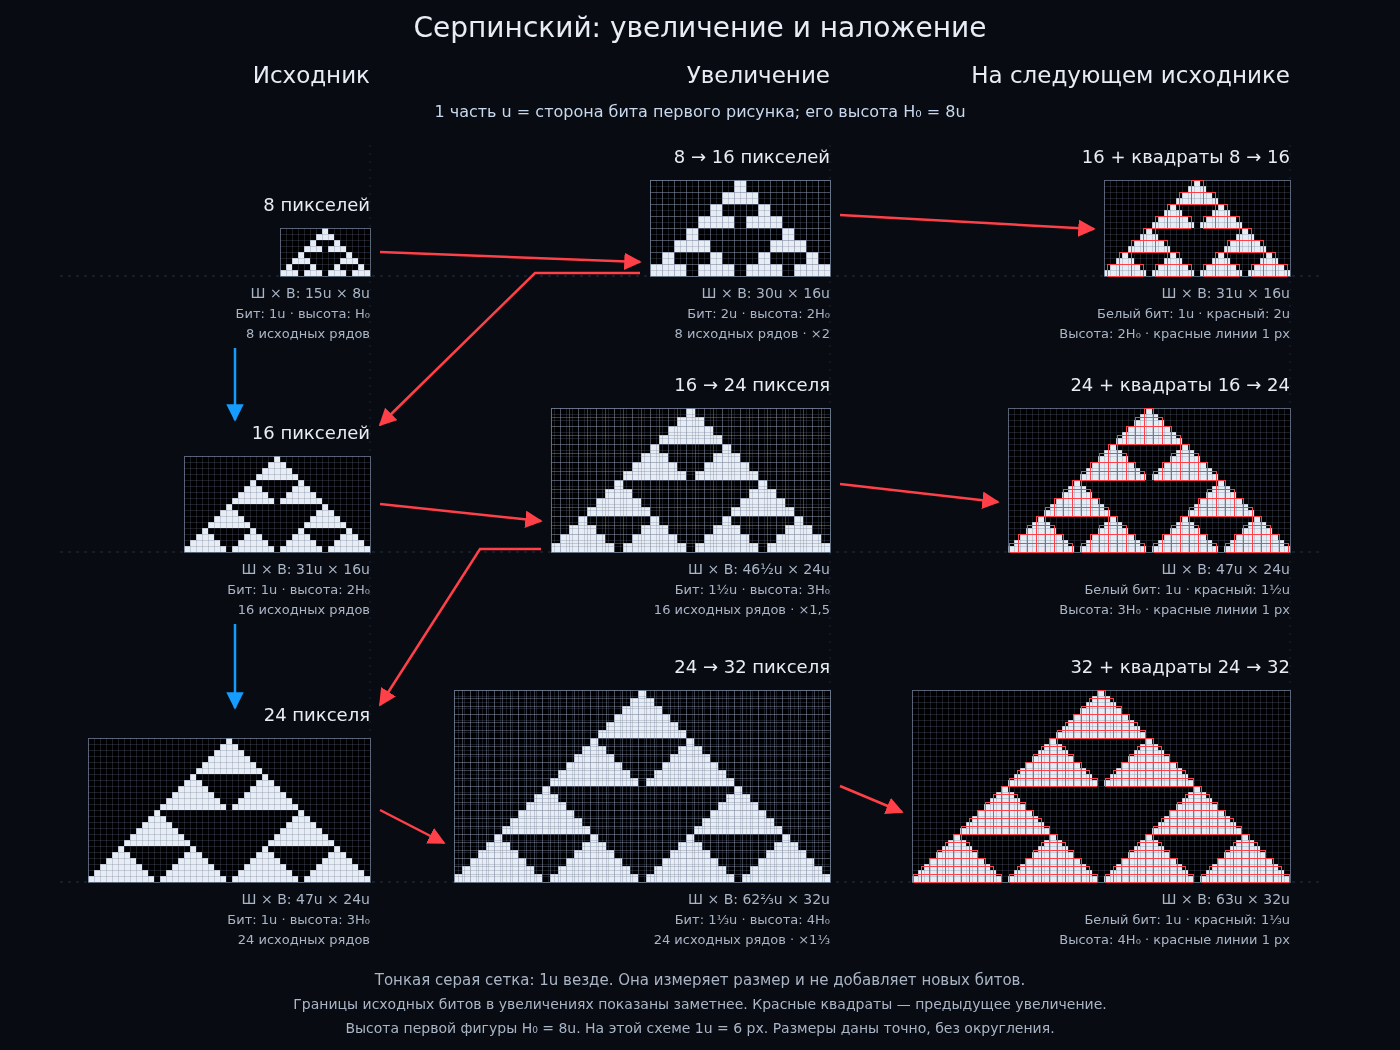
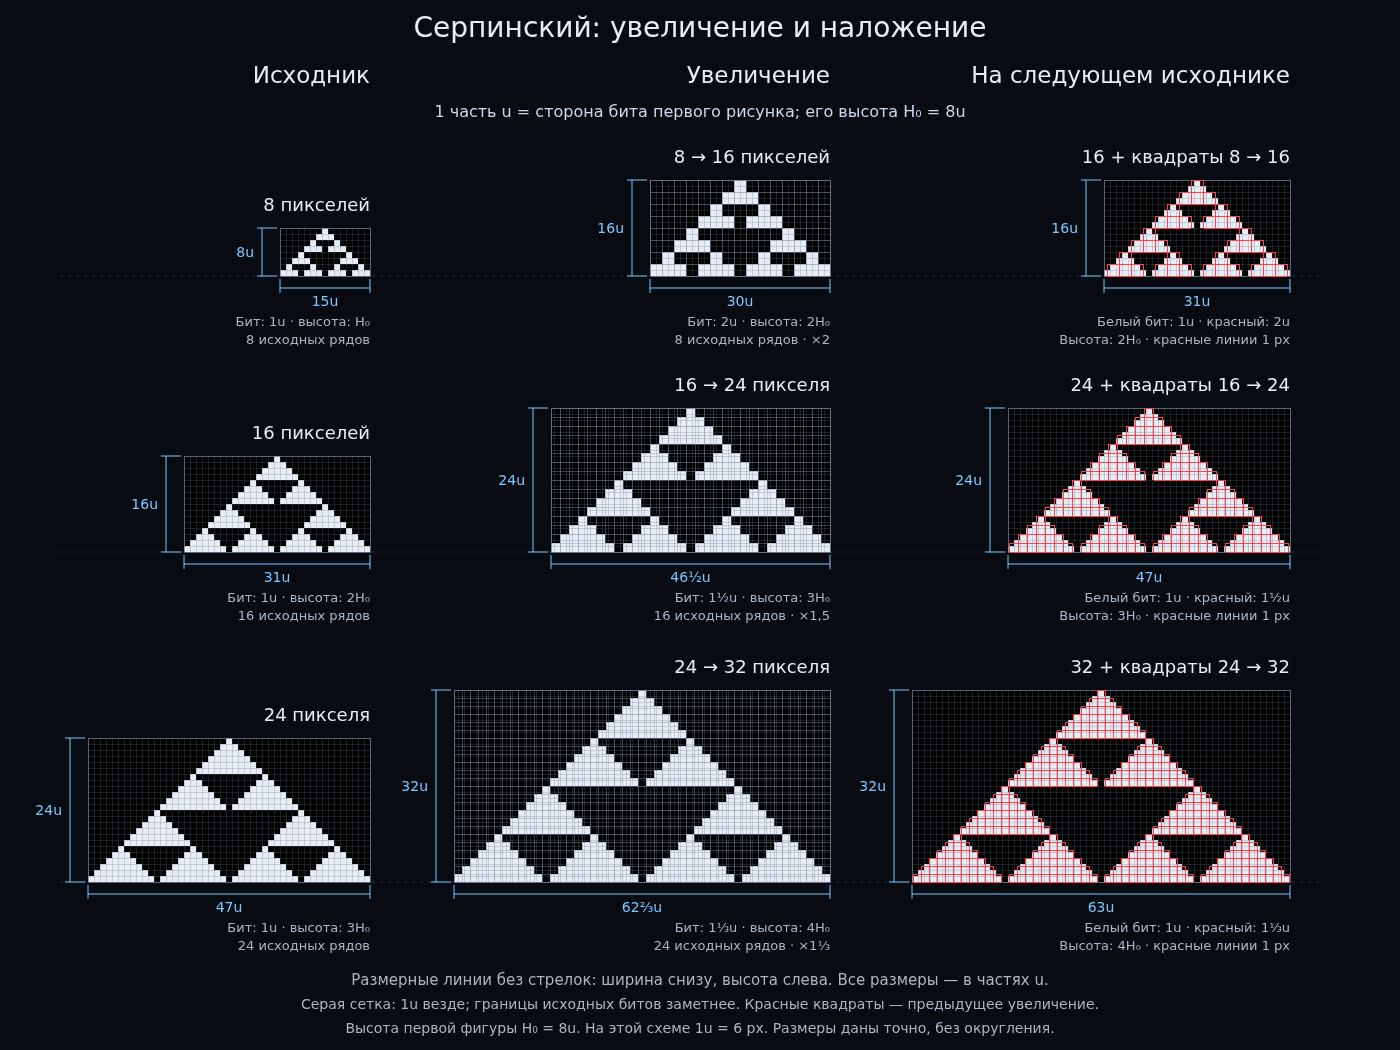
Show panel dimensions and remove Sierpinski connector arrows

diff --git a/ЗАДАЧИ.md b/ЗАДАЧИ.md
@@ -17,6 +17,7 @@
 | КНП-004 | Меняющая наклон диагональ у «или–или» | P1 | готово | завершено | 100% (4/4) | текущая сессия Codex | Исполнителю КНП-003 учитывать КН10 и 58 правил |
 | ИСС-001 | Выровнять и сохранить схему Серпинского | P1 | готово | завершено | 100% (4/4) | текущая сессия Codex | Использовать схему в разделе 7.7 исследований |
 | ИСС-003 | Три наложения и размеры в частях первого бита | P1 | готово | завершено | 100% (4/4) | текущая сессия Codex | Использовать обновлённую схему раздела 7.7 |
+| ИСС-004 | Размерные линии вместо стрелок на схеме Серпинского | P1 | проверка | публикация | 75% (3/4) | текущая сессия Codex | Опубликовать и подтвердить файлы |
 | СВР-001 | Сверить отложенную работу геометрического сгиба | P3 | требует сверки | постановка | не оценён | не назначен | Сопоставить старую запись с текущим кодом; не возобновлять без задачи пользователя |
 
 ## КРД-001 — переносимое управление проектом
@@ -184,6 +185,19 @@
 - Единицы: u — сторона первого бита; H₀=8u. Ширины увеличений 30u, 46½u, 62⅔u, размеры битов 2u, 1½u, 1⅓u. Следующие исходники имеют ширины 31u, 47u, 63u.
 - Публикация: подтверждена в [8fd6d46](https://github.com/MIkhailNkmnme/Binary-Drum-Machine/commit/8fd6d46c880be36d764d13cc27be387fa3a95978). Шесть текстовых файлов сверены, PNG совпал по SHA. Закрытие записывается текущим коммитом. Следующее: использовать обновлённую схему и генератор при новых уточнениях.
 - Расход токенов: нет данных.
+
+## ИСС-004 — размерные линии вместо стрелок
+
+- Источник: пользователь попросил показать размеры и удалить стрелки на схеме Серпинского.
+- Статус: проверка. Этап: публикация. Прогресс: 75% (3/4 критериев, каждый вес 1).
+- Исполнитель: основная сессия Codex, без делегирования; узкая связанная правка. Сложность: обычная подготовка точной схемы; фактические настройки модели не подтверждены. Дата: 2026-10-23 (Europe/Moscow). Расход токенов: нет данных.
+- Файлы: issledovanie/serpinski-pikseli-nalozhenie.mjs, .svg, .png; раздел 7.7 отчёта v0.066; документы состояния.
+- Критерии:
+  - [x] Удалить все красные и синие стрелки переходов и их SVG-маркеры.
+  - [x] Показать ширину снизу и высоту слева у всех девяти картинок в частях u: 18 размерных линий с засечками без наконечников. Точные дроби сохранены. Все девять групп рисунков побайтово совпали с прежними: битовые карты, сетки, красные квадраты 1 px и выравнивание не изменены.
+  - [x] Просмотреть PNG и проверить SVG, размеры, выравнивание, отчёт на 1280/412 px, просмотр полного размера и предпросмотр новости; ошибок JS нет.
+  - [ ] Опубликовать и подтвердить HTML, SVG, PNG и генератор на GitHub; сохранить закрытие.
+- Следующий шаг: публикация и проверка удалённого содержимого. Другие задачи и предпросмотр research-news-preview.js?v=65 сохранены.
 
 ## Шаблон новой карточки
 

diff --git a/ЖУРНАЛ.md b/ЖУРНАЛ.md
@@ -42,3 +42,5 @@
 2026-10-23 (Europe/Moscow) · Codex, текущая сессия · ИСС-003 — публикация 8fd6d46 проверена: шесть удалённых текстов совпали с подготовленными, PNG подтверждён точным Git blob SHA. Девять панелей, три полных наложения, общая сетка 1u, точные дроби и H₀=8u; восемь прежних карт битов сохранены. Браузерные проверки схемы, 1280/412 px, полноразмерного просмотра и предпросмотра новостей прошли. 4/4 = 100%; закрытие записано текущим коммитом. Следующее: новые уточнения пользователя.
 
 2026-10-23 (Europe/Moscow) · Codex, координатор · ИСС-002 — пользователь уточнил показывать имеющееся видео новости 7.6. Подтянуты и сохранены свежие изменения схемы v0.064 (63b68f1); отчёт поднят до v0.065. Предпросмотр распознаёт рисунки и video своего раздела; для 7.6 вставляет тот же MP4 с постером и управлением, запускает без звука, останавливает при смене новости. В браузере проверены видеоблок и переключение обратно к 7.5 с остановкой/снятием источника; синтаксис и diff чистые. Публичный MP4 video/mp4 с bytes, H.264 1028×512, 43.8 с. Следующее: публикация и проверка сайта.
+
+2026-10-23 (Europe/Moscow) · Codex, текущая сессия · ИСС-004 — по просьбе пользователя удалены все стрелки переходов на схеме Серпинского; у каждого рисунка добавлены ширина снизу и высота слева в частях u, размерные линии с засечками без стрелок. 18 размеров, девять групп рисунков полностью совпали с прежними; точные дроби, сетки, красные квадраты 1 px и выравнивание сохранены. SVG/PNG просмотрены; отчёт v0.066, проверки 1280/412, просмотр полного размера и предпросмотр новости прошли. 3/4 = 75%; следующее: публикация и подтверждение. Сохранено свежее изменение другой сессии: видео в предпросмотре v0.065.

diff --git a/ПРОДОЛЖИТЬ.md b/ПРОДОЛЖИТЬ.md
@@ -14,6 +14,8 @@
 
 ## Текущая передача
 
+- ИСС-004: размерные линии вместо стрелок на схеме Серпинского, отчёт v0.066. Удалены все переходные стрелки, добавлены 18 размеров (ширина снизу, высота слева) с засечками без наконечников. Девять рисунков сохранены точно. Проверки SVG/PNG и отчёта 1280/412 пройдены; 75% (3/4), осталось подтвердить публикацию. Старые задачи и предпросмотр новостей сохранены.
+
 - Дополнительное поручение этой сессии завершено: ИСС-003 — 9 рисунков, в третьем столбце 3 наложения; единая сетка 1u первого бита, точные ширины/высоты/размеры битов и H/H₀. Отчёт v0.064 сохраняет предпросмотр новостей v0.063 другой сессии. 100% (4/4). Публикация 8fd6d46 подтверждена: 6 текстовых файлов сверены, PNG совпал по SHA. Закрытие записано текущим коммитом; другие задачи сохранены.
 
 - КРД-002 завершена: HTML-страница редакторов /redaktoram/ опубликована в b0933fc и проверена на публичном адресе в браузере; 100% (5/5). Читает действующие документы, не ведёт отдельную копию реестра.
